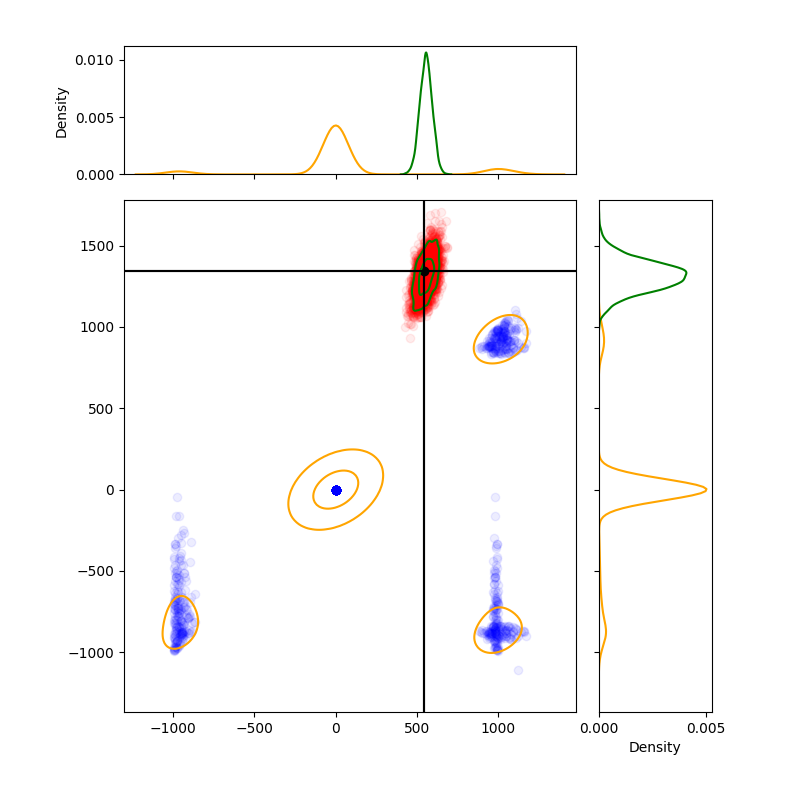
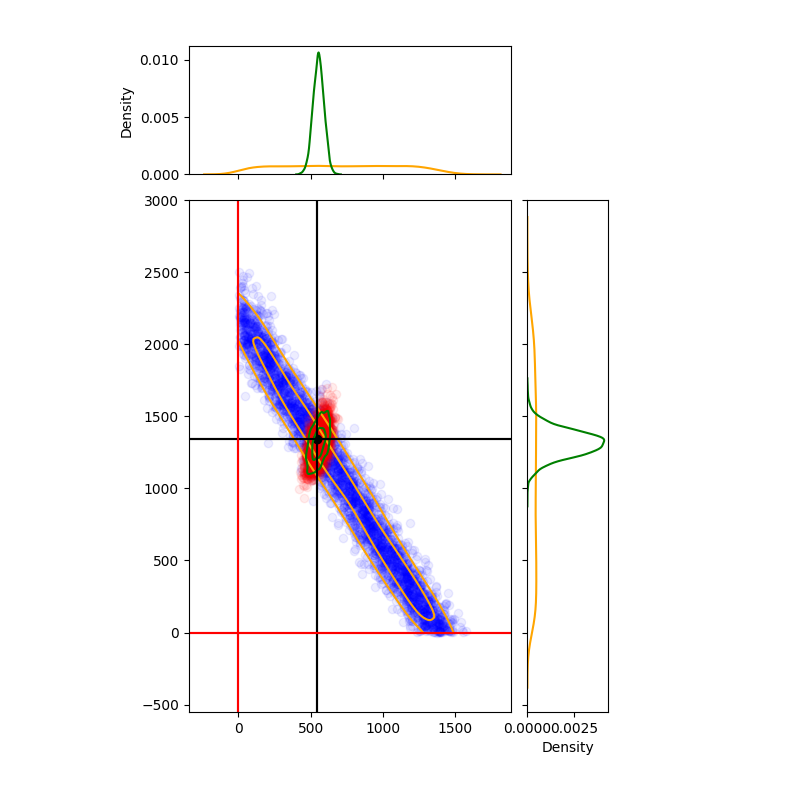
code seems to work but scotts rule gives bin width of ~0.26 which seems far too small

diff --git a/plot_posterior.py b/plot_posterior.py
@@ -1,7 +1,7 @@
 import numpy as np
 import matplotlib.pyplot as plt
 import seaborn as sns
-from scipy.ndimage import rotate
+
 
 class PlotPosterior:
     def __init__(self, data1, data2, injected_1, injected_2, limit_at_axes=True, limit_at_diagonal=False):
@@ -15,14 +15,28 @@ class PlotPosterior:
 
         self.clip = None
 
-        self.bin_width = 200
+        self.bin_width = self.scotts_rule(n=len(data1), d=2)
+
+        print('bin width =', self.bin_width)
+
+    def scotts_rule(self, n, d):
+        result = n ** (-1. / (d + 4))
+        return result
+
 
     def extend_data_for_axis_limit(self, data1, data2, bin_width):
         coords = np.column_stack((data1, data2))
-        extend_length = int(np.ceil(bin_width))
 
-        x_sort_indices = np.lexsort((coords[:,1], coords[:,0]))
-        y_sort_indices = np.lexsort((coords[:,0], coords[:,1]))
+        first_quadrant_filter = np.intersect1d(np.where(coords[:, 0] > 0)[0], np.where(coords[:, 1] > 0)[0])
+        coords = coords[first_quadrant_filter]
+
+        x_extend_filter = np.where(coords[:, 0] < bin_width)[0]
+        y_extend_filter = np.where(coords[:, 1] < bin_width)[0]
+
+        x_extend_length = len(x_extend_filter)
+        y_extend_length = len(y_extend_filter)
+
+        extend_length = x_extend_length + y_extend_length # if zero, then cannot broadcast coords into coords_extended[x_extend_length:-y_extend_length]
 
         flip_x_matrix = np.zeros(shape=(2, 2))
         flip_x_matrix[0, 0] = -1
@@ -32,15 +46,15 @@ class PlotPosterior:
         flip_y_matrix[0, 0] = 1
         flip_y_matrix[1, 1] = -1
 
-        coords_extended = np.zeros(shape=(extend_length + len(coords) + extend_length, 2))
-        # coords_extended[extend_length:-extend_length] = coords
-
-        for i in range(extend_length):
-            coords_extended[i] = coords[x_sort_indices][i] @ flip_x_matrix
-            coords_extended[-i] = coords[y_sort_indices][i] @ flip_y_matrix
-
-            coords_extended[2*i] = coords[x_sort_indices][i]
-            coords_extended[2*-i] = coords[y_sort_indices][i]
+        coords_extended = np.zeros(shape=(x_extend_length + len(coords) + y_extend_length, 2))
+        if extend_length != 0:
+            coords_extended[x_extend_length:-y_extend_length] = coords
+            for i in range(x_extend_length):
+                coords_extended[i] = coords[x_extend_filter][i] @ flip_x_matrix
+            for i in range(y_extend_length):
+                coords_extended[-i - 1] = coords[y_extend_filter][i] @ flip_y_matrix
+        else:
+            coords_extended = coords
 
         extended_data1, extended_data2 = zip(*coords_extended)
 
@@ -56,8 +70,6 @@ class PlotPosterior:
         rotation_matrix[0, 1] = -np.sin(angle)
         rotation_matrix[1, 0] = np.sin(angle)
         rotation_matrix[1, 1] = np.cos(angle)
-
-        print(rotation_matrix)
 
         rotated_coords = np.zeros_like(coords)
         for i, coord in enumerate(coords):
@@ -83,7 +95,7 @@ class PlotPosterior:
         if self.limit_at_diagonal:
             kde_x, kde_y = self.rotate_data(kde_x, kde_y, 45) # why is it 45 and not -45?
             kde_x, kde_y = self.extend_data_for_axis_limit(kde_x, kde_y, bin_width=self.bin_width)
-            # kde_x, kde_y = self.rotate_data(kde_x, kde_y, -45)
+            kde_x, kde_y = self.rotate_data(kde_x, kde_y, -45)
 
         ax_histx.tick_params(axis="x", labelbottom=False)
         ax_histy.tick_params(axis="y", labelleft=False)
@@ -97,6 +109,9 @@ class PlotPosterior:
         ax.axvline(injected_x, color='black')
         ax.axhline(injected_y, color='black')
         ax.scatter([injected_x], [injected_y], color='black', marker='o', label='injected value')
+
+        ax.axvline(0, color='red')
+        ax.axhline(0, color='red')
 
     def plot(self, save=False, show=False, xlabel='', ylabel='', title='', **kwargs):
         fig = plt.figure(figsize=(8, 8))

diff --git a/compare_binary_love.py b/compare_binary_love.py
@@ -9,14 +9,14 @@ zero_spin_filename = 'bns_zero_spin_L1L2_example_data0_1126259642-413_analysis_H
 zero_spin_data = DataLoaderH5(filename='data/' + zero_spin_filename + '.hdf5', parameters=parameters)
 zero_spin_plotter = PlotPosterior(zero_spin_data.posteriors_dict[parameters[0]], zero_spin_data.posteriors_dict[parameters[1]],
                                   zero_spin_data.injection_dict[parameters[0]], zero_spin_data.injection_dict[parameters[1]],
-                                  limit_at_axes=False, limit_at_diagonal=True)
+                                  limit_at_axes=True, limit_at_diagonal=False)
 
 
 binary_love_filename = 'bns_binary_love_example_data0_1126259642-413_analysis_H1L1V1_result'
 binary_love_data = DataLoaderH5(filename='data/' + binary_love_filename + '.hdf5', parameters=parameters)
 binary_love_plotter = PlotPosterior(binary_love_data.posteriors_dict[parameters[0]], binary_love_data.posteriors_dict[parameters[1]],
                                   binary_love_data.injection_dict[parameters[0]], binary_love_data.injection_dict[parameters[1]],
-                                    limit_at_axes=False, limit_at_diagonal=False)
+                                    limit_at_axes=False, limit_at_diagonal=True)
 
 
 
